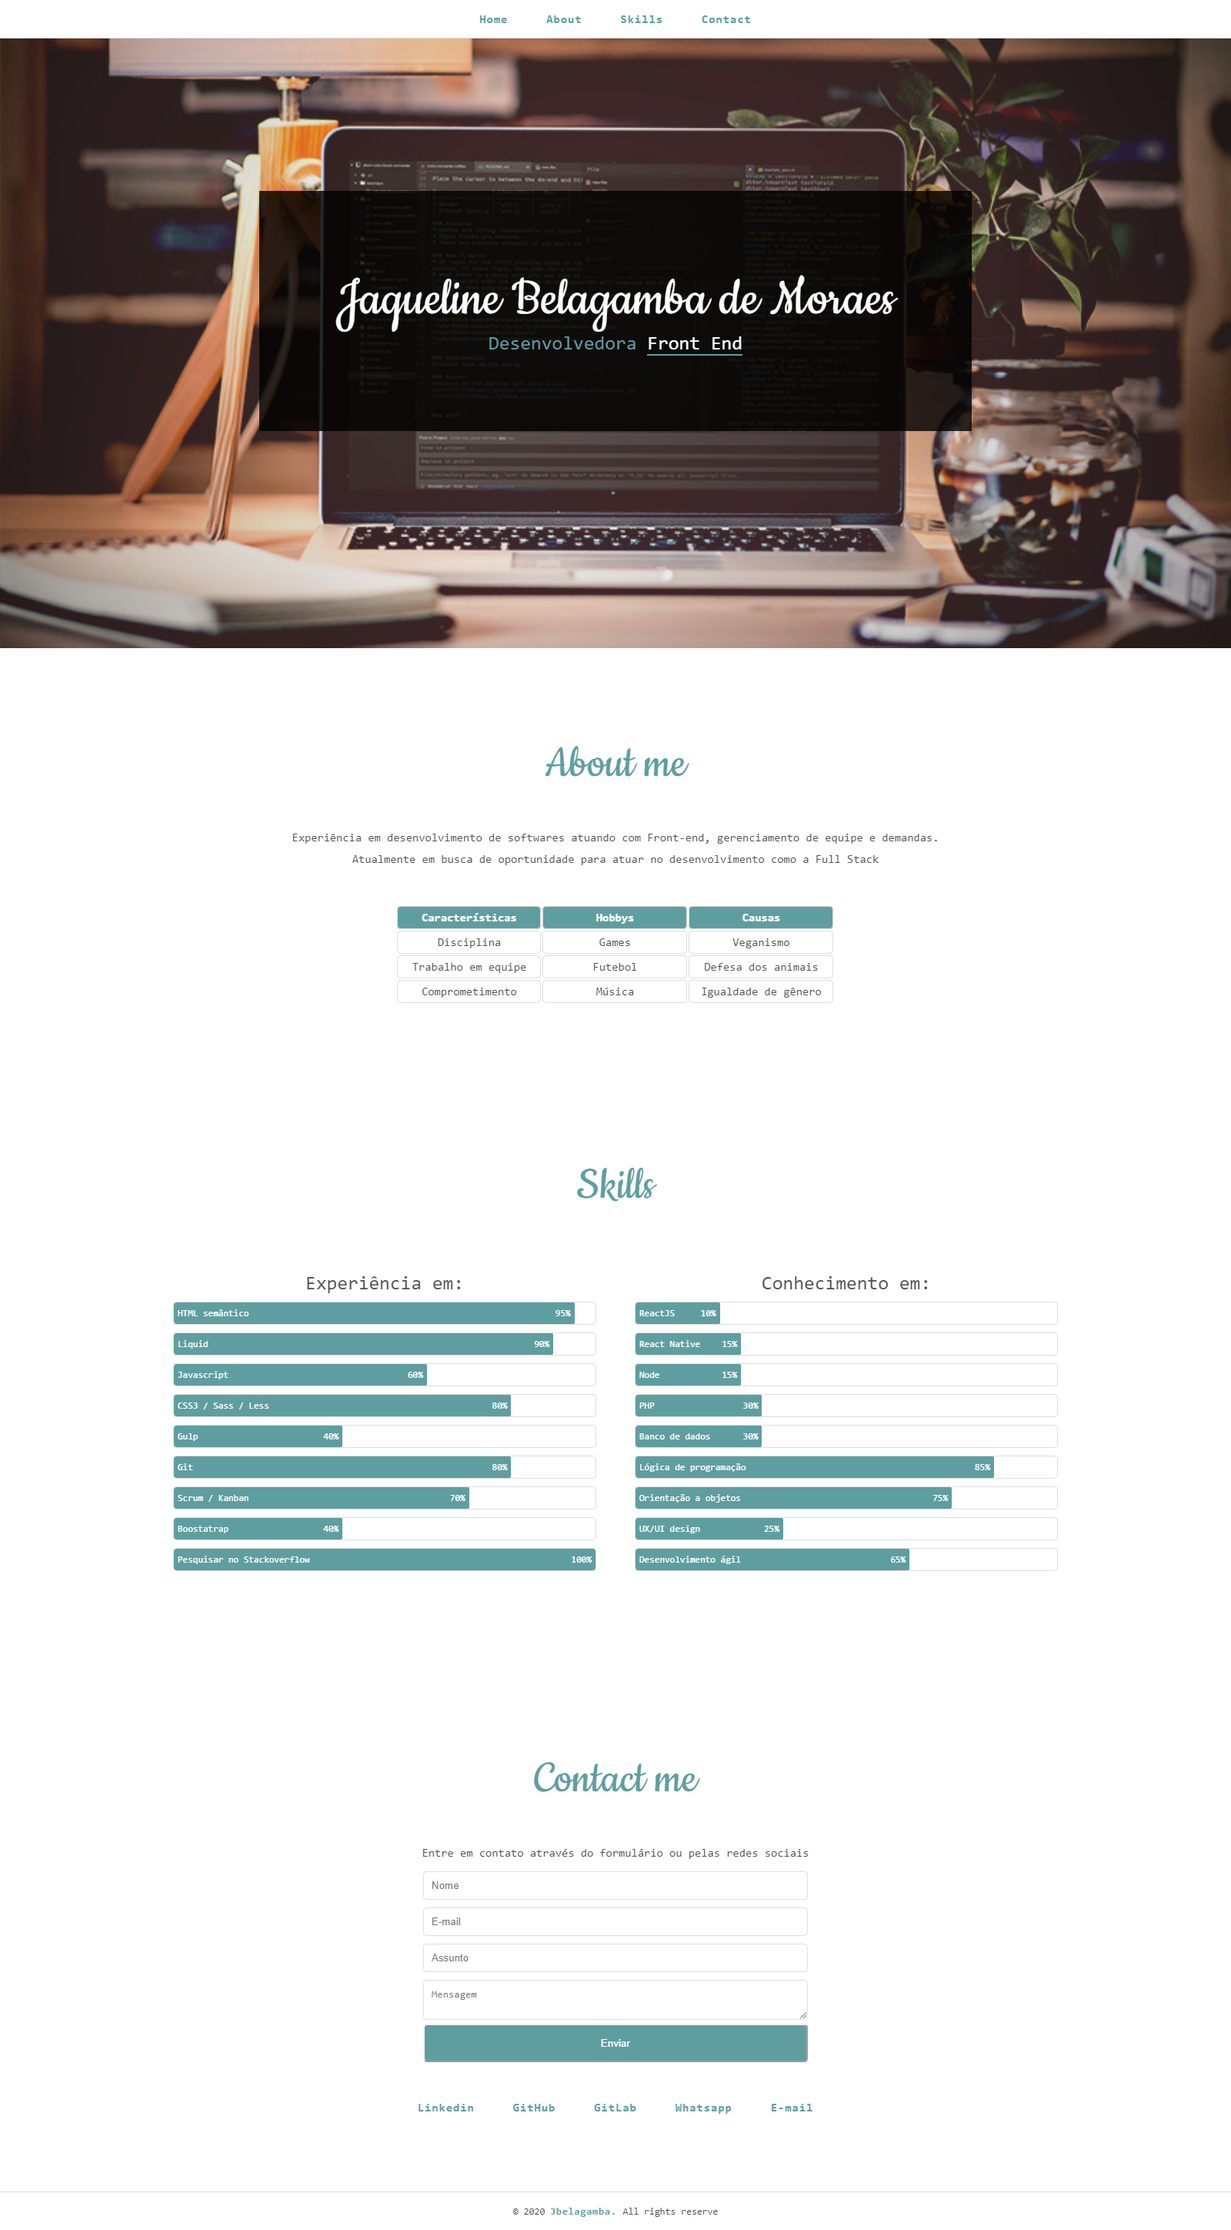
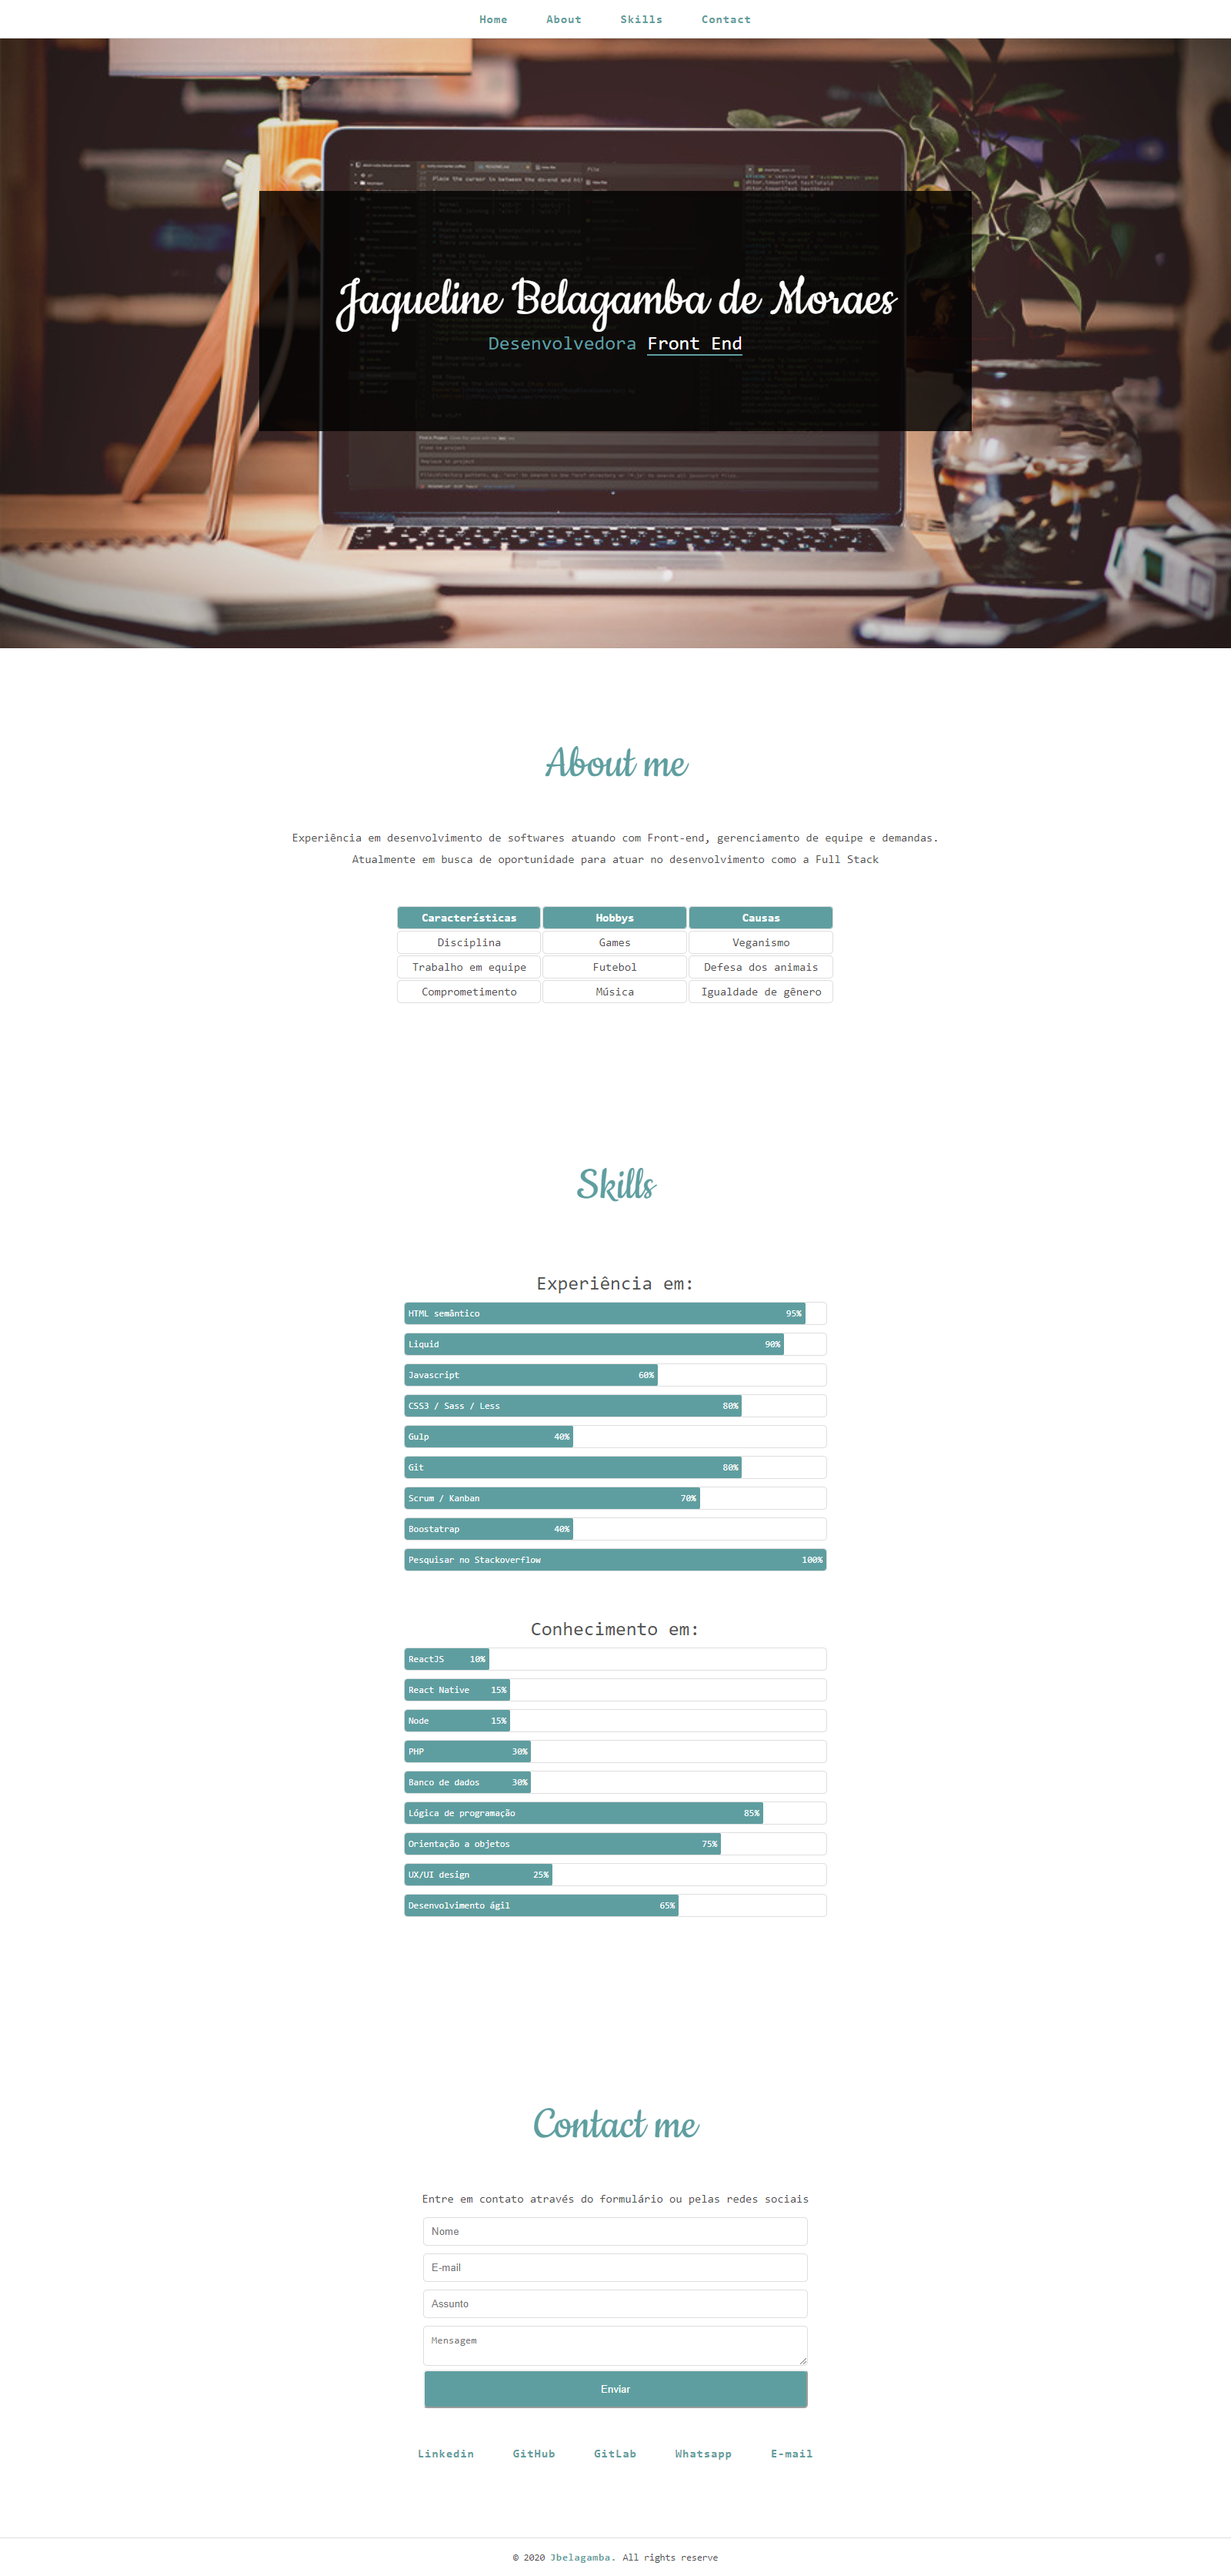
[growdev] altera flex da sessao de skills

diff --git a/exercicio.html b/exercicio.html
@@ -72,32 +72,30 @@
     <section class="skills container" id="skills">
       <div class="content">
         <h2 class="title-primary">Skills</h2>
-        <div class="flex-box">
-          <ul>
-            <h3>Experiência em:</h3>
-            <li>HTML semântico <span class="percent" style="width: 95%;">95%</span></li>
-            <li>Liquid <span class="percent" style="width: 90%;">90%</span></li>
-            <li>Javascript <span class="percent" style="width: 60%;">60%</span></li>
-            <li>CSS3 / Sass / Less <span class="percent" style="width: 80%;">80%</span></li>
-            <li>Gulp <span class="percent" style="width: 40%;">40%</span></li>
-            <li>Git <span class="percent" style="width: 80%;">80%</span></li>
-            <li>Scrum / Kanban <span class="percent" style="width: 70%;">70%</span></li>
-            <li>Boostatrap <span class="percent" style="width: 40%;">40%</span></li>
-            <li>Pesquisar no Stackoverflow <span class="percent" style="width: 100%;">100%</span></li>
-          </ul>
-          <ul>
-            <h3>Conhecimento em:</h3>
-            <li>ReactJS <span class="percent" style="width: 20%;">10%</span></li>
-            <li>React Native <span class="percent" style="width: 25%;">15%</span></li>
-            <li>Node <span class="percent" style="width: 25%;">15%</span></li>
-            <li>PHP <span class="percent" style="width: 30%;">30%</span></li>
-            <li>Banco de dados <span class="percent" style="width: 30%;">30%</span></li> 
-            <li>Lógica de programação <span class="percent" style="width: 85%;">85%</span></li>
-            <li>Orientação a objetos <span class="percent" style="width: 75%;">75%</span></li>
-            <li>UX/UI design <span class="percent" style="width: 35%;">25%</span></li>
-            <li>Desenvolvimento ágil <span class="percent" style="width: 65%;">65%</span></li>     
-          </ul>
-        </div>
+        <ul>
+          <h3>Experiência em:</h3>
+          <li>HTML semântico <span class="percent" style="width: 95%;">95%</span></li>
+          <li>Liquid <span class="percent" style="width: 90%;">90%</span></li>
+          <li>Javascript <span class="percent" style="width: 60%;">60%</span></li>
+          <li>CSS3 / Sass / Less <span class="percent" style="width: 80%;">80%</span></li>
+          <li>Gulp <span class="percent" style="width: 40%;">40%</span></li>
+          <li>Git <span class="percent" style="width: 80%;">80%</span></li>
+          <li>Scrum / Kanban <span class="percent" style="width: 70%;">70%</span></li>
+          <li>Boostatrap <span class="percent" style="width: 40%;">40%</span></li>
+          <li>Pesquisar no Stackoverflow <span class="percent" style="width: 100%;">100%</span></li>
+        </ul>
+        <ul>
+          <h3>Conhecimento em:</h3>
+          <li>ReactJS <span class="percent" style="width: 20%;">10%</span></li>
+          <li>React Native <span class="percent" style="width: 25%;">15%</span></li>
+          <li>Node <span class="percent" style="width: 25%;">15%</span></li>
+          <li>PHP <span class="percent" style="width: 30%;">30%</span></li>
+          <li>Banco de dados <span class="percent" style="width: 30%;">30%</span></li> 
+          <li>Lógica de programação <span class="percent" style="width: 85%;">85%</span></li>
+          <li>Orientação a objetos <span class="percent" style="width: 75%;">75%</span></li>
+          <li>UX/UI design <span class="percent" style="width: 35%;">25%</span></li>
+          <li>Desenvolvimento ágil <span class="percent" style="width: 65%;">65%</span></li>     
+        </ul>
       </div>
     </section>
 

diff --git a/styles.css b/styles.css
@@ -175,22 +175,17 @@ section.about > .content > table th {
 }
 
 
-section.skills > .content > .flex-box {
-  display: flex;
-  justify-content: center;
-  align-items: flex-start;
-}
-
-section.skills > .content > .flex-box > ul {
+section.skills > .content > ul {
   width: 50%;
+  margin: auto;
   padding: 25px;
 }
 
-section.skills > .content > .flex-box > ul > h3 {
+section.skills > .content > ul > h3 {
   text-align: center;
 }
 
-section.skills > .content > .flex-box > ul > li {
+section.skills > .content > ul > li {
   height: 30px;
   color: white;
   font-size: 12px;
@@ -205,7 +200,7 @@ section.skills > .content > .flex-box > ul > li {
   align-items: center;
 }
 
-section.skills > .content > .flex-box > ul > li > span.percent {
+section.skills > .content > ul > li > span.percent {
   width: 40%;
   height: 100%;
   position: absolute;
